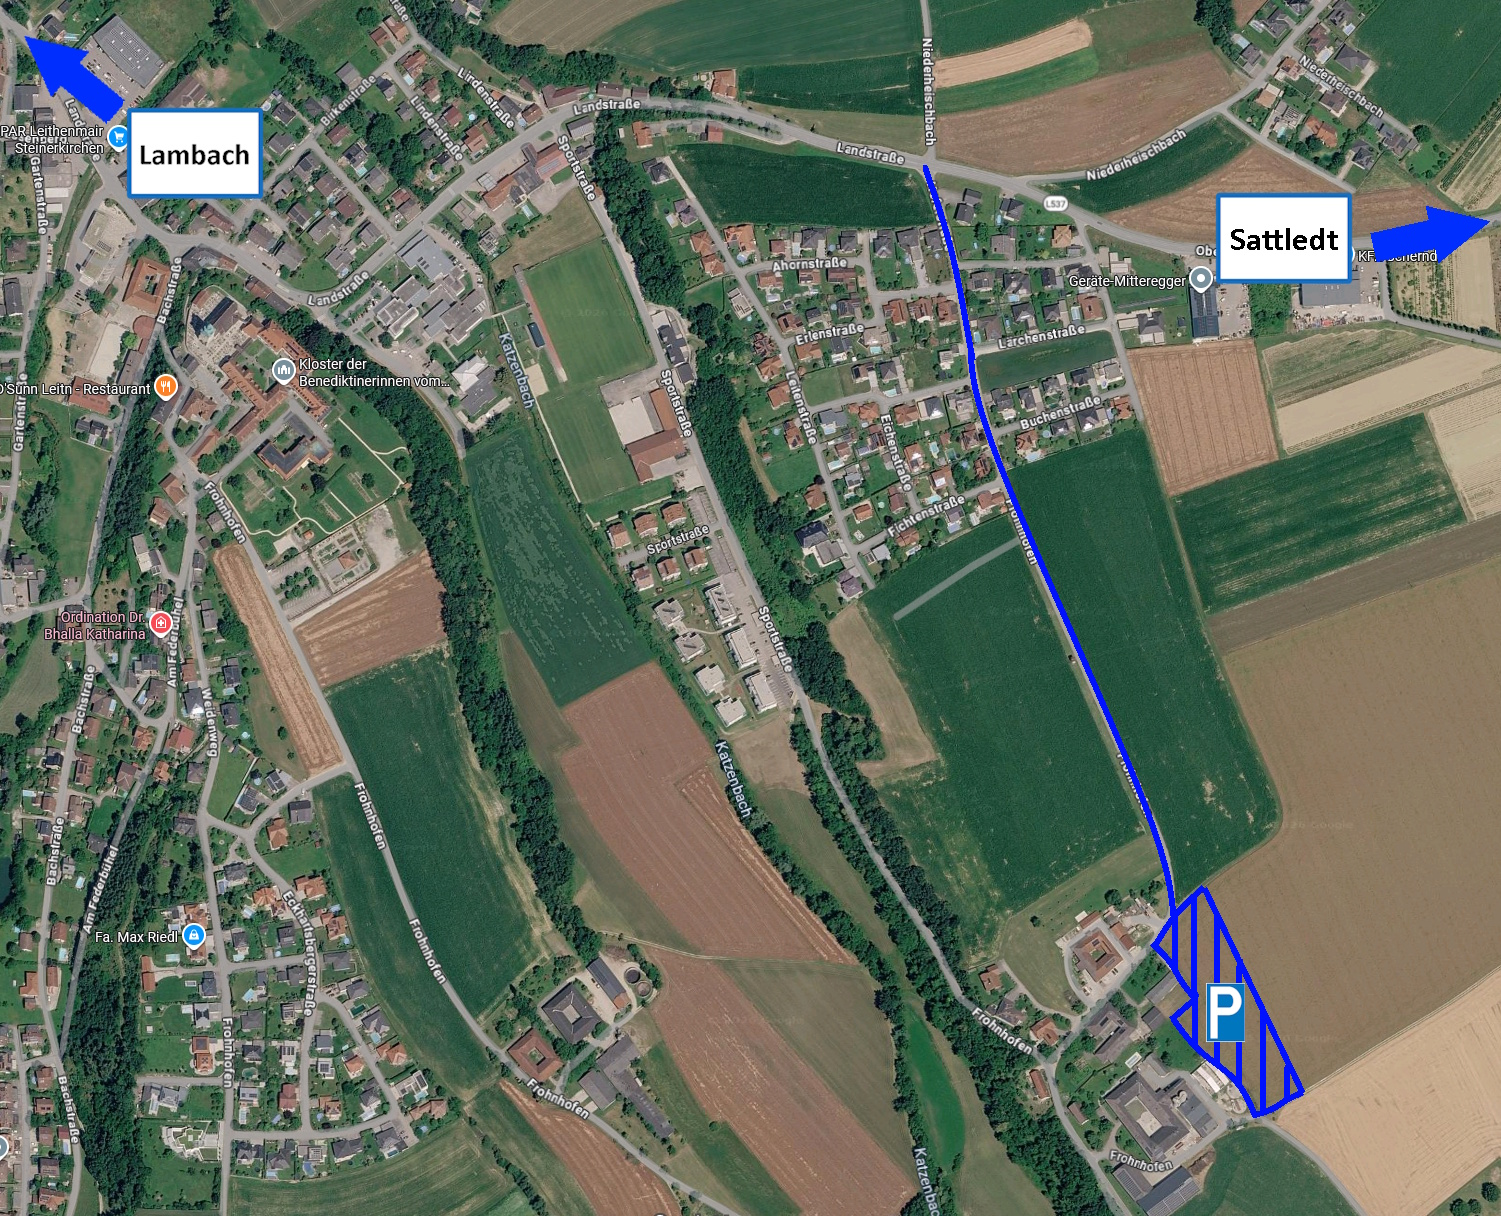
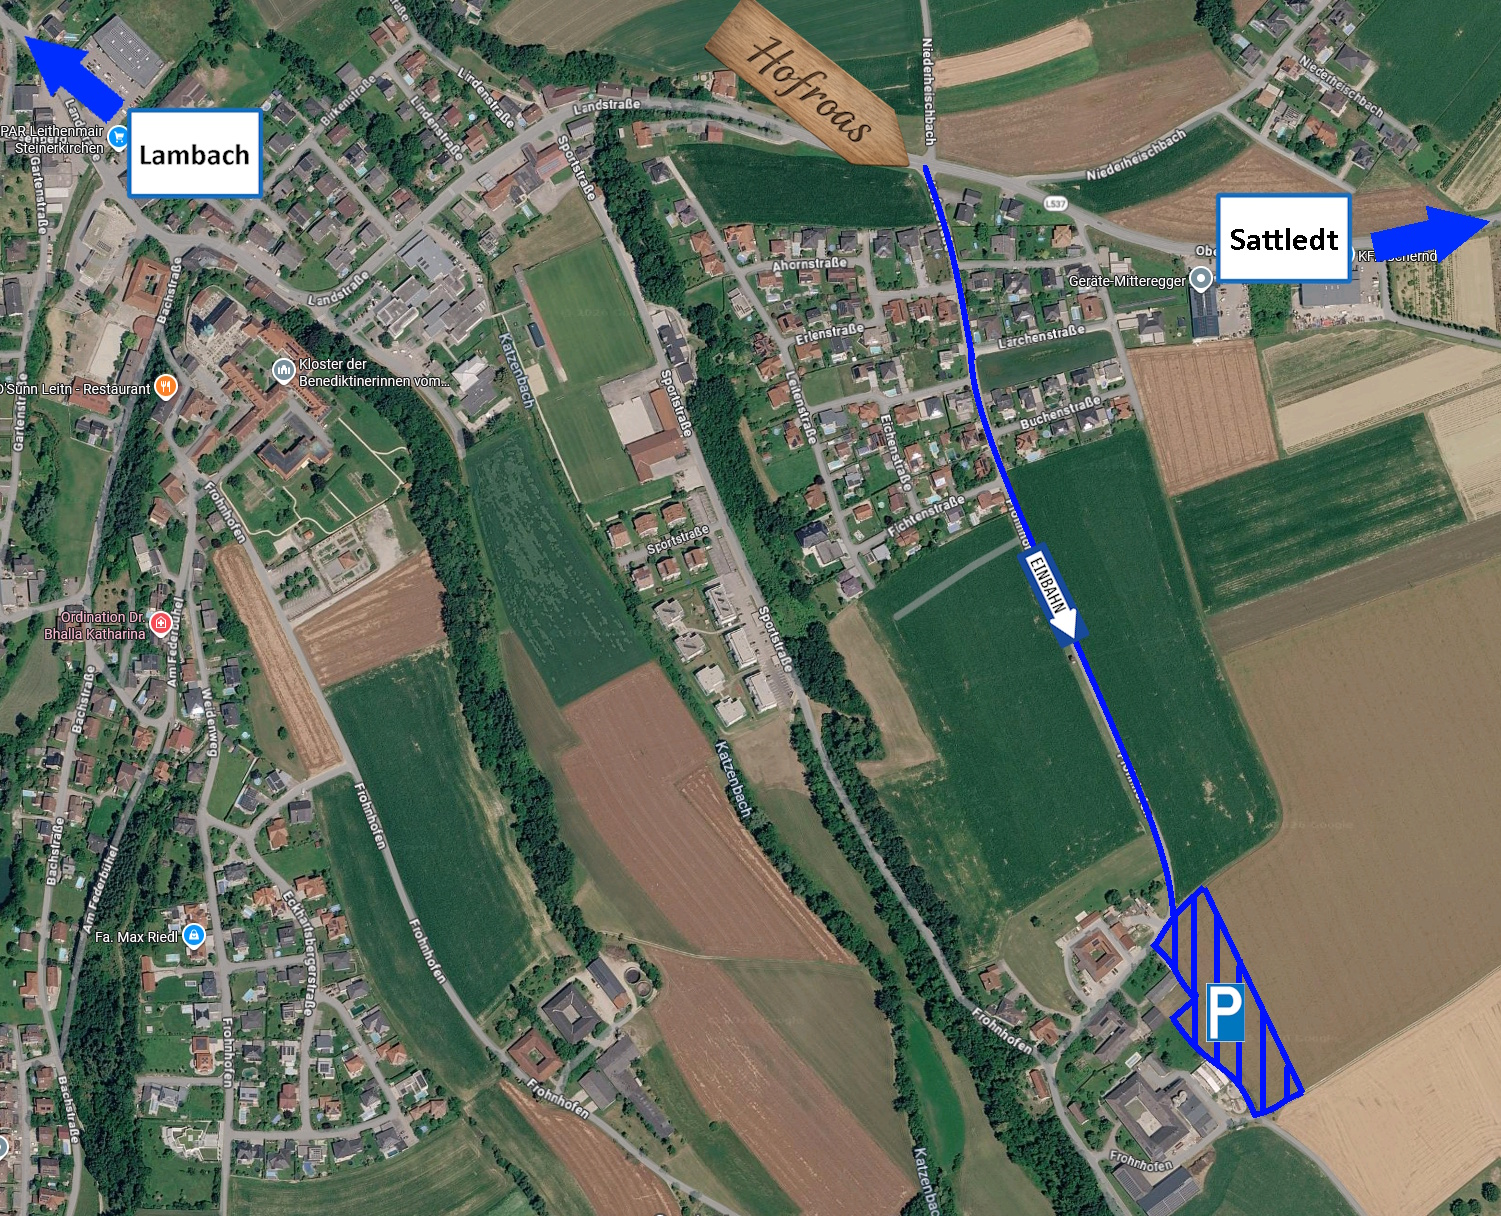
korrektur

Changed region(s): [[0.4597, 0.0, 0.6129, 0.1562], [0.6742, 0.4375, 0.7355, 0.5312]]

diff --git a/index.html b/index.html
@@ -23,11 +23,12 @@ body{font-family:'Segoe UI',Arial,sans-serif;background:var(--cream);color:var(-
 .h-title{font-family:Georgia,serif;font-size:clamp(68px,13vw,126px);font-weight:700;color:#fff;line-height:.87;letter-spacing:-3px;margin-bottom:.65rem;}
 .h-sub{font-family:Georgia,serif;font-size:clamp(15px,3vw,22px);color:rgba(255,255,255,.78);font-style:italic;margin-bottom:2.5rem;}
 .pills{display:flex;gap:1.2rem;flex-wrap:wrap;justify-content:center;}
-.pill{display:flex;align-items:center;gap:8px;background:rgba(255,255,255,.11);backdrop-filter:blur(6px);border:1px solid rgba(255,255,255,.22);border-radius:40px;padding:9px 20px;color:#fff;font-size:14px;font-weight:500;}
-.pill svg{width:15px;height:15px;stroke:currentColor;fill:none;stroke-width:2;stroke-linecap:round;stroke-linejoin:round;flex-shrink:0;opacity:.75;}
+.pill{display:flex;align-items:center;gap:8px;background:rgba(255,255,255,.11);backdrop-filter:blur(6px);border:1px solid rgba(255,255,255,.22);border-radius:40px;padding:11px 24px;color:#fff;font-size:17px;font-weight:500;}
+.pill svg{width:18px;height:18px;stroke:currentColor;fill:none;stroke-width:2;stroke-linecap:round;stroke-linejoin:round;flex-shrink:0;opacity:.75;}
 .scroll-hint{position:absolute;bottom:2rem;left:50%;transform:translateX(-50%);z-index:2;display:flex;flex-direction:column;align-items:center;gap:5px;color:rgba(255,255,255,.4);font-size:10px;letter-spacing:3px;text-transform:uppercase;cursor:pointer;}
 .scroll-hint span{width:1px;height:36px;background:linear-gradient(to bottom,rgba(255,255,255,.35),transparent);animation:sp 2s ease-in-out infinite;}
 @keyframes sp{0%,100%{opacity:.25;}50%{opacity:1;}}
+@keyframes pulse-dabei{0%,100%{transform:scale(1);opacity:1;}50%{transform:scale(1.08);opacity:.7;}}
 .info-band{background:var(--gd);}
 .ig{display:grid;grid-template-columns:repeat(4,1fr);}
 @media(max-width:600px){.ig{grid-template-columns:repeat(2,1fr);}}
@@ -149,8 +150,8 @@ footer strong{color:rgba(255,255,255,.6);}
     <div class="ey">Willkommen</div>
     <h2 class="st">Ein Tag auf dem Bauernhof</h2>
     <div class="dv" style="margin:1rem auto 1.75rem;"></div>
-    <p style="max-width:640px;margin:0 auto;font-size:17px;line-height:1.9;color:var(--tm);">Bei der <strong>Hofroas</strong> öffnen fünf Familienbetriebe aus Steinerkirchen ihre Tore. Wandere den 5,2&nbsp;km langen Rundweg und genieße köstliche Schmankerl direkt vom Hof. Ein Fest für die ganze Familie!</p>
-    <p style="max-width:640px;margin:.9rem auto 0;font-size:15px;line-height:1.8;color:var(--tm);"><strong>Der Rundweg ist für alle Altersgruppen geeignet</strong> – von Jung bis Alt – <strong>und kinderwagentauglich.</strong></p>
+    <p style="max-width:640px;margin:0 auto;font-size:17px;line-height:1.9;color:var(--tm);">Bei der <strong>Hofroas</strong> öffnen fünf Familienbetriebe aus Steinerkirchen an der Traun ihre Tore. Wandere den 5,2&nbsp;km langen Rundweg und genieße köstliche Schmankerl direkt am Hof. Ein Fest für die ganze Familie!</p>
+    <p style="max-width:640px;margin:.9rem auto 0;font-size:15px;line-height:1.8;color:var(--tm);"><strong>Der Rundweg ist für alle Altersgruppen geeignet</strong> – von Jung bis Alt – <strong>und ist auch kinderwagentauglich.</strong></p>
   </div>
 </section>
 
@@ -179,9 +180,11 @@ footer strong{color:rgba(255,255,255,.6);}
         <div class="st-txt-col">
           <div class="st-label">STATION 1</div>
           <div class="st-name">Fam. Hörtenhuemer</div>
-          <p class="st-desc">Der Startpunkt der Hofroas! Bei Familie Hörtenhuemer in Frohnhofen 2 (vlg. Moar z'Hof) beginnt das Abenteuer. Die Hauptstation bietet Imker, Schaubrennerei, eine Bodenprofil-Ausstellung zum Bodenwasserschutz sowie eine Maschinenausstellung von MAUCH und Huemer Solar. Vereine Bauernbund und ÖVP sind vor Ort, Küche und Bar sorgen für Verpflegung, Kinderprogramm mit Hüpfburg.</p>
+          <p class="st-desc">Der Startpunkt der Hofroas! Bei Familie Hörtenhuemer in Frohnhofen 2 (vlg. Moar z'Hof) beginnt das Abenteuer. Die Hauptstation bietet Imker, Schaubrennerei, eine Bodenprofil-Ausstellung zum Bodenwasserschutz sowie eine Maschinenausstellung von MAUCH und Huemer Solar. Die Vereine Bauernbund und ÖVP sorgen für Schmankerl aus der Küche und die Jungbauernschaft versorgt an der Bar mit erfrischenden Getränken. Für die Kinder ist eine Hüpfburg aufgebaut.</p>
           <div class="st-tags">
-            <span class="st-tag">Hauptstation</span>
+
+            <span class="st-tag">Parkplatz</span>
+            <span class="st-tag">Bodenprofil</span>
             <span class="st-tag">Imker &amp; Schaubrennerei</span>
             <span class="st-tag">Maschinenausstellung</span>
             <span class="st-tag">Hüpfburg</span>
@@ -197,11 +200,10 @@ footer strong{color:rgba(255,255,255,.6);}
         <div class="st-txt-col">
           <div class="st-label">STATION 2</div>
           <div class="st-name">Hörbinger</div>
-          <p class="st-desc">Bei Familie Hörbinger trifft Sport auf Genuss: Die Sportschützen laden zum Speckschiessen ein, die Freiwillige Feuerwehr Steinerkirchen sorgt für Kinderprogramm und an der Seiterlbar gibt es kühle Getränke. <strong>Kein WC an dieser Station.</strong></p>
+          <p class="st-desc">Bei Familie Hörbinger trifft Sport auf Genuss. Die Sportschützen laden zum Speckschiessen ein, die Freiwillige Feuerwehr Steinerkirchen sorgt für Kinderprogramm und an der Seiterlbar gibt es kühle Getränke. <strong>Kein WC an dieser Station.</strong></p>
           <div class="st-tags">
             <span class="st-tag">Speckschiessen</span>
             <span class="st-tag">Seiterlbar</span>
-            <span class="st-tag">FF Steinerkirchen</span>
             <span class="st-tag">Kinderprogramm</span>
           </div>
         </div>
@@ -215,10 +217,11 @@ footer strong{color:rgba(255,255,255,.6);}
         <div class="st-txt-col">
           <div class="st-label">STATION 3</div>
           <div class="st-name">Fam. Dollmann</div>
-          <p class="st-desc">Bei Familie Dollmann in Ritzendorf gibt es Hightech auf dem Feld: LW-Drohnenvorführungen von Martin Ziegelbäck, Maschinenring mit Maschinenausstellung und eine Esserwisser-Ausstellung der Landwirtschaftskammer. Annas Genuss Imbiss bietet Snacks, Kaffee und Kuchen. Ausschank mit Seiterlbar. Vereine: Bäuerinnen und JVP.</p>
+          <p class="st-desc">Bei Familie Dollmann in Ritzendorf gibt es Hightech auf dem Feld. Es gibt eine LW-Drohnenvorführungen, Maschinenring mit einer Maschinenausstellung und eine Esserwisser-Ausstellung der Landwirtschaftskammer. Annas Genuss Imbiss bietet Snacks, Kaffee und Kuchen. Ausschank mit Seiterlbar. Für das Kinderprogramm sorgen Bäuerinnen und die JVP.</p>
           <div class="st-tags">
             <span class="st-tag">Drohnenvorführung</span>
-            <span class="st-tag">Maschinenring</span>
+            <span class="st-tag">Maschinenring Ausstellung</span>
+            <span class="st-tag">Esserwisser</span>
             <span class="st-tag">Annas Genuss Imbiss</span>
             <span class="st-tag">Kaffee &amp; Kuchen</span>
           </div>
@@ -233,11 +236,12 @@ footer strong{color:rgba(255,255,255,.6);}
         <div class="st-txt-col">
           <div class="st-label">STATION 4</div>
           <div class="st-name">Fam. Pühringer</div>
-          <p class="st-desc">Die vierte Station bei Familie Pühringer in Atzmannsdorf bietet Einblick in moderne Schweinehaltung und Innovationfarm-Technik mit Feldroboter und Feldversuch. Die Jäger übernehmen Bewirtung sowie Kinderprogramm mit Falknerei. Ausstellung aktueller LW-Geräte, evtl. Team Gruber mit Quads.</p>
+          <p class="st-desc">Die vierte Station bei Familie Pühringer in Atzmannsdorf bietet Einblick in moderne Schweinehaltung und Innovationfarm-Technik mit Feldroboter und Feldversuch. Auserdem gibt es eine Ausstellung weiterer aktueller Landwirtschaftlicher Geräte. Die Jäger übernehmen Bewirtung mit Wildspezialitäten sowie Kinderprogramm mit Falknerei. </p>
           <div class="st-tags">
-            <span class="st-tag">Schweinehaltung</span>
-            <span class="st-tag">Innovationfarm &amp; Feldroboter</span>
-            <span class="st-tag">Falknerei · Jäger</span>
+            <span class="st-tag">Schweinehaltung</span> 
+            <span class="st-tag">Feldversuch</span>
+            <span class="st-tag">Feldroboter</span>
+            <span class="st-tag">Falknerei</span>
           </div>
         </div>
       </div>
@@ -250,12 +254,11 @@ footer strong{color:rgba(255,255,255,.6);}
         <div class="st-txt-col">
           <div class="st-label">STATION 5</div>
           <div class="st-name">Fam. Rau</div>
-          <p class="st-desc">Den Abschluss der Hofroas bildet der Hühnerbetrieb der Familie Rau in Stockham mit Einblick in die Geflügelwirtschaft. Dazu gibt es eine Oldtimer-Ausstellung, Senioren mit Spiralos-Programm sowie Snacks und Getränke vom Skiclub Steinerkirchen. Kinderprogramm vom Skiclub.</p>
+          <p class="st-desc">Den Abschluss der Hofroas bildet der Hühnerbetrieb der Familie Rau in Stockham mit Einblick in die Geflügelwirtschaft und eine Oldtimer-Ausstellung. Für Verpflegung werden von den Senioren Spiralos geboten und ein herzhafter Kaiserschmarn und Getränke werden vom Skiclub Steinerkirchen serviert. Zusätzlich kümmert sich der Skiclub auch um das Kinderprogramm.</p>
           <div class="st-tags">
-            <span class="st-tag">Hühnerbetrieb &amp; Geflügel</span>
+            <span class="st-tag">Hühnerbetrieb</span>
             <span class="st-tag">Oldtimer-Ausstellung</span>
-            <span class="st-tag">Skiclub Steinerkirchen</span>
-            <span class="st-tag">Senioren (Spiralos)</span>
+            <span class="st-tag">Spiralos &amp; Kaiserschmarn</span>            
           </div>
         </div>
       </div>
@@ -290,10 +293,19 @@ footer strong{color:rgba(255,255,255,.6);}
       <div class="st-txt-col">
         <div class="st-label">Shuttle-Service</div>
         <div class="st-name">Bequem zwischen den Stationen</div>
-        <p class="st-desc">Zwischen den fünf Stationen der Hofroas verkehrt ein <strong>Shuttle-Service</strong>, der dich bequem von Hof zu Hof bringt. So kannst du entspannt einzelne Abschnitte der Route zufahren, falls du nicht die gesamte Strecke zu Fuß zurücklegen möchtest.</p>
+        <p class="st-desc">Zwischen den fünf Stationen der Hofroas verkehrt ein <strong>Shuttle-Service</strong>, der dich bequem von Hof zu Hof bringt. So kannst du entspannt einzelne Abschnitte der Route erreichen, falls du nicht die gesamte Strecke zu Fuß zurücklegen möchtest.</p>
+      </div>
+    </div>
+
+    <div class="st-row st-row-rev" style="margin-top:3.5rem;">
+      <div class="st-img-col">
+        <img src="Subseite/Kinderwagen.jpg" alt="Kinderwagentauglicher Weg">
+      </div>
+      <div class="st-txt-col">
+        <div class="st-label">Für die ganze Familie</div>
+        <div class="st-name">Jung &amp; Alt · Kinderwagentauglich</div>
+        <p class="st-desc">Der Rundweg ist für alle Altersgruppen geeignet von Jung bis Alt <strong>und kinderwagentauglich</strong>, sodass auch die Kleinsten bequem mitkommen können.</p>
         <div class="st-tags">
-          <span class="st-tag">Jung &amp; Alt geeignet</span>
-          <span class="st-tag">Kinderwagentauglich</span>
         </div>
       </div>
     </div>
@@ -301,33 +313,10 @@ footer strong{color:rgba(255,255,255,.6);}
     <div style="margin-top:3.5rem;">
       <div class="st-label">Anreise &amp; Parken</div>
       <div class="st-name" style="margin-bottom:1rem;">Parkmöglichkeiten</div>
-      <p class="st-desc" style="max-width:100%;">Entlang der Route stehen ausgeschilderte <strong>Parkplätze</strong> zur Verfügung. Bitte folge bei der Anreise den Hinweisschildern und den Anweisungen der Einweiser vor Ort, um einen reibungslosen Ablauf für alle Besucher zu gewährleisten.</p>
+      <p class="st-desc" style="max-width:100%;">Parkplätze sind <strong>ausschließlich</strong> bei Fam. Hörtenhuemer (erste Station Frohnhofen 2) verfügbar. Bitte folge bei der Anreise den Hinweisschildern und den Anweisungen der Einweiser vor Ort, um einen reibungslosen Ablauf für alle Besucher zu gewährleisten.</p>
       <div class="map-wrap" style="margin-top:1.5rem;">
         <img src="Subseite/Parkplatz.jpg" alt="Parkplatz" style="width:100%;height:auto;display:block;">
       </div>
-    </div>
-  </div>
-</section>
-
-<section class="sec reg-sec">
-  <div class="si">
-    <div class="ey">Kulinarik</div>
-    <h2 class="st">Regional. Frisch. Vom Hof.</h2>
-    <div class="dv"></div>
-    <p class="rlead">An jeder Station erwarten dich Köstlichkeiten aus der Region – von Mostviertler Spezialitäten über frisches Brot bis hin zu warmen Schmankerln.</p>
-    <div class="rg">
-      <!-- Frisches Brot: loaf of bread -->
-      <div class="ri"><div class="ri-icon"><svg viewBox="0 0 24 24"><path d="M3 11C3 7.134 7.03 4 12 4s9 3.134 9 7v9a1 1 0 0 1-1 1H4a1 1 0 0 1-1-1v-9z"/><line x1="3" y1="11" x2="21" y2="11"/></svg></div><p>Frisches Brot</p></div>
-      <!-- Obst & Gemüse: apple -->
-      <div class="ri"><div class="ri-icon"><svg viewBox="0 0 24 24"><path d="M12 2c1-2 4-2 4 0"/><path d="M7 6c-2.5.5-5 3-5 7a9 9 0 0 0 9 9 9 9 0 0 0 9-9c0-4-2.5-6.5-5-7-1.5-.3-3 0-4 1-1-1-2.5-1.3-4-1z"/></svg></div><p>Obst &amp; Gemüse</p></div>
-      <!-- Getränke: beer mug / wine glass -->
-      <div class="ri"><div class="ri-icon"><svg viewBox="0 0 24 24"><path d="M5 3h14l-1.5 14.5a2 2 0 0 1-2 1.5H8.5a2 2 0 0 1-2-1.5L5 3z"/><path d="M3 3h18"/><path d="M8 10c0 2 8 2 8 0"/></svg></div><p>Getränke</p></div>
-      <!-- Milchprodukte: milk bottle -->
-      <div class="ri"><div class="ri-icon"><svg viewBox="0 0 24 24"><path d="M8 2h8l1 4H7L8 2z"/><path d="M7 6v2c-2 1-3 3-3 5v7a2 2 0 0 0 2 2h12a2 2 0 0 0 2-2v-7c0-2-1-4-3-5V6"/><line x1="12" y1="11" x2="12" y2="17"/><line x1="9" y1="14" x2="15" y2="14"/></svg></div><p>Milchprodukte</p></div>
-      <!-- Warme Speisen: bowl with steam -->
-      <div class="ri"><div class="ri-icon"><svg viewBox="0 0 24 24"><path d="M12 2c0 2-2 2-2 4s2 2 2 4-2 2-2 4"/><path d="M8 2c0 2-2 2-2 4s2 2 2 4-2 2-2 4"/><path d="M16 2c0 2-2 2-2 4s2 2 2 4-2 2-2 4"/><path d="M3 16h18a9 9 0 0 1-18 0z"/></svg></div><p>Warme Speisen</p></div>
-      <!-- Wurst & Speck: meat/ham -->
-      <div class="ri"><div class="ri-icon"><svg viewBox="0 0 24 24"><path d="M12 2a10 10 0 0 1 10 10 5 5 0 0 1-5 5 3 3 0 0 0-3 3 5 5 0 0 1-5 5A10 10 0 0 1 2 12 10 10 0 0 1 12 2z"/><circle cx="12" cy="12" r="3"/></svg></div><p>Wurst &amp; Speck</p></div>
     </div>
   </div>
 </section>
@@ -356,13 +345,19 @@ footer strong{color:rgba(255,255,255,.6);}
 </section>
 
 <section class="cta">
-  <div class="ey" style="color:var(--brown);font-size:10px;letter-spacing:5px;text-transform:uppercase;font-weight:700;margin-bottom:.65rem;">Sei dabei!</div>
+  <div class="ey" style="color:var(--brown);font-size:20px;letter-spacing:5px;text-transform:uppercase;font-weight:700;margin-bottom:.65rem;display:inline-block;animation:pulse-dabei 1.6s ease-in-out infinite;">Sei dabei!</div>
   <h2 class="st" style="color:var(--brown);font-family:Georgia,serif;">Sonntag, 6. September 2026</h2>
   <p class="cta-sub">Startpunkt: Fam. Hörtenhuemer · Frohnhofen 2 · Steinerkirchen · Beginn 10:00 Uhr</p>
-  <a class="btn" href="https://www.google.com/maps/search/Frohnhofen+2+Steinerkirchen+an+der+Traun" target="_blank">
-    <svg viewBox="0 0 24 24"><path d="M21 10c0 7-9 13-9 13s-9-6-9-13a9 9 0 0 1 18 0z"/><circle cx="12" cy="10" r="3"/></svg>
-    Anfahrt &amp; Google Maps
-  </a>
+  <div style="display:flex;gap:1rem;flex-wrap:wrap;justify-content:center;">
+    <a class="btn" href="https://www.google.com/maps/search/Frohnhofen+2+Steinerkirchen+an+der+Traun" target="_blank">
+      <svg viewBox="0 0 24 24"><path d="M21 10c0 7-9 13-9 13s-9-6-9-13a9 9 0 0 1 18 0z"/><circle cx="12" cy="10" r="3"/></svg>
+      Anfahrt &amp; Google Maps
+    </a>
+    <a class="btn" href="data:text/calendar;charset=utf8,BEGIN%3AVCALENDAR%0AVERSION%3A2.0%0APRODID%3A-%2F%2FHofroas%20Steinerkirchen%2F%2FDE%0ABEGIN%3AVEVENT%0AUID%3Ahofroas-2026%40steinerkirchen%0ADTSTAMP%3A20260101T000000Z%0ADTSTART%3A20260906T100000%0ADTEND%3A20260906T170000%0ASUMMARY%3A4.%20Hofroas%20Steinerkirchen%0ADESCRIPTION%3AWandertag%20zu%205%20Bauernh%C3%B6fen%20in%20Steinerkirchen%20-%20Start%20bei%20Fam.%20H%C3%B6rtenhuemer%2C%20Frohnhofen%202%0ALOCATION%3AFrohnhofen%202%2C%20Steinerkirchen%20an%20der%20Traun%0AEND%3AVEVENT%0AEND%3AVCALENDAR" download="Hofroas-2026.ics">
+      <svg viewBox="0 0 24 24"><rect x="3" y="4" width="18" height="18" rx="2"/><line x1="16" y1="2" x2="16" y2="6"/><line x1="8" y1="2" x2="8" y2="6"/><line x1="3" y1="10" x2="21" y2="10"/></svg>
+      Termin speichern
+    </a>
+  </div>
 </section>
 
 <footer>
@@ -375,7 +370,7 @@ footer strong{color:rgba(255,255,255,.6);}
 <script>
 (function(){
   const COORDS   = [[48.071327,13.968455],[48.071333,13.968448],[48.071757,13.968023],[48.071847,13.968251],[48.071754,13.968532],[48.071706,13.968678],[48.071705,13.968913],[48.071826,13.969193],[48.072025,13.969557],[48.072103,13.969887],[48.072195,13.970222],[48.072444,13.970883],[48.07301,13.972227],[48.073263,13.972764],[48.073335,13.973012],[48.073372,13.973261],[48.073369,13.974617],[48.073387,13.975351],[48.073436,13.975854],[48.073538,13.976266],[48.073708,13.976758],[48.074142,13.977769],[48.074486,13.978475],[48.074761,13.978938],[48.074969,13.979215],[48.075033,13.979254],[48.075241,13.979198],[48.075371,13.979256],[48.075438,13.979132],[48.075371,13.979256],[48.074829,13.980445],[48.074177,13.982087],[48.073658,13.983365],[48.073514,13.983939],[48.0734,13.984291],[48.072991,13.984963],[48.072343,13.985796],[48.072082,13.986231],[48.071625,13.987113],[48.071523,13.987498],[48.071483,13.987652],[48.07094,13.988182],[48.070767,13.988435],[48.070694,13.988678],[48.070569,13.989287],[48.070414,13.989576],[48.070256,13.990111],[48.070149,13.990353],[48.069817,13.990844],[48.069567,13.991158],[48.06858,13.992117],[48.068053,13.992503],[48.067512,13.992817],[48.06609,13.993329],[48.065456,13.993592],[48.064386,13.993222],[48.063812,13.993131],[48.062877,13.99299],[48.062875,13.992878],[48.062784,13.991902],[48.062802,13.991654],[48.062852,13.99146],[48.062926,13.991369],[48.063183,13.991053],[48.063308,13.990833],[48.06349,13.990415],[48.063617,13.989991],[48.064015,13.988224],[48.064418,13.985271],[48.064586,13.984088],[48.064652,13.98339],[48.064774,13.981989],[48.064923,13.97971],[48.065018,13.978839],[48.065041,13.97834],[48.065009,13.97727],[48.065051,13.97726],[48.065589,13.977125],[48.065625,13.976988],[48.065892,13.976634],[48.06623,13.976097],[48.066446,13.97583],[48.06683,13.975509],[48.066888,13.975383],[48.066903,13.975242],[48.067017,13.975237],[48.067124,13.975185],[48.067468,13.974865],[48.068484,13.973693],[48.068561,13.973651],[48.068925,13.972716],[48.069555,13.971324],[48.069843,13.970609],[48.070038,13.970221],[48.070332,13.969756],[48.071051,13.968776],[48.071327,13.968455]];
-  const STATIONS = [{id:1,lat:48.071327,lon:13.968455,name:"Fam. Hörtenhuemer",addr:"Frohnhofen 2",sub:"vlg. Moar z'Hof",tag:"Hauptstation",tags:["Imker & Schaubrennerei","Maschinenausstellung","Hüpfburg"],img:"img1"},{id:2,lat:48.075438,lon:13.979132,name:"Hörbinger",addr:"Ritzendorf 11",sub:"",tag:"Speckschiessen",img:"img2"},{id:3,lat:48.071483,lon:13.987652,name:"Fam. Dollmann",addr:"Ritzendorf 7",sub:"",tag:"Drohnenvorführung",img:"img3"},{id:4,lat:48.062877,lon:13.99299,name:"Fam. Pühringer",addr:"Atzmannsdorf 9",sub:"",tag:"Innovationfarm",tags:["Innovationfarm & Feldroboter","Falknerei · Jäger"],img:"img4"},{id:5,lat:48.065371,lon:13.977721,name:"Fam. Rau",addr:"Stockham 9",sub:"",tag:"Oldtimer-Ausstellung",img:"img5"}];
+  const STATIONS = [{id:1,lat:48.071327,lon:13.968455,name:"Fam. Hörtenhuemer",addr:"Frohnhofen 2",sub:"vlg. Moar z'Hof",tag:"Hauptstation",tags:["Parkplatz","Bodenprofil","Imker & Schaubrennerei","Maschinenausstellung","Hüpfburg"],img:"img1"},{id:2,lat:48.075438,lon:13.979132,name:"Hörbinger",addr:"Ritzendorf 11",sub:"",tag:"Speckschiessen",tags:["Speckschiessen","Seiterlbar","Kinderprogramm"],img:"img2"},{id:3,lat:48.071483,lon:13.987652,name:"Fam. Dollmann",addr:"Ritzendorf 7",sub:"",tag:"Drohnenvorführung",tags:["Drohnenvorführung","Maschinenring Ausstellung","Esserwisser","Annas Genuss Imbiss","Kaffee & Kuchen"],img:"img3"},{id:4,lat:48.062877,lon:13.99299,name:"Fam. Pühringer",addr:"Atzmannsdorf 9",sub:"",tag:"Innovationfarm",tags:["Schweinehaltung","Feldversuch","Feldroboter","Falknerei"],img:"img4"},{id:5,lat:48.065371,lon:13.977721,name:"Fam. Rau",addr:"Stockham 9",sub:"",tag:"Oldtimer-Ausstellung",tags:["Hühnerbetrieb","Oldtimer-Ausstellung","Spiralos & Kaiserschmarn"],img:"img5"}];
   const IMGS     = {img1:"Hof/Fronhofen 2_Station 1.png",img2:"Hof/Höbringer Station 2.png",img3:"Hof/Fam. Dollmann Station 3.jpg",img4:"Hof/Fam. Pühringer Station 4.jpg",img5:"Hof/Fam. Rau Station 5.png"};
 
   const map = L.map('map', {zoomControl:true, scrollWheelZoom:false});